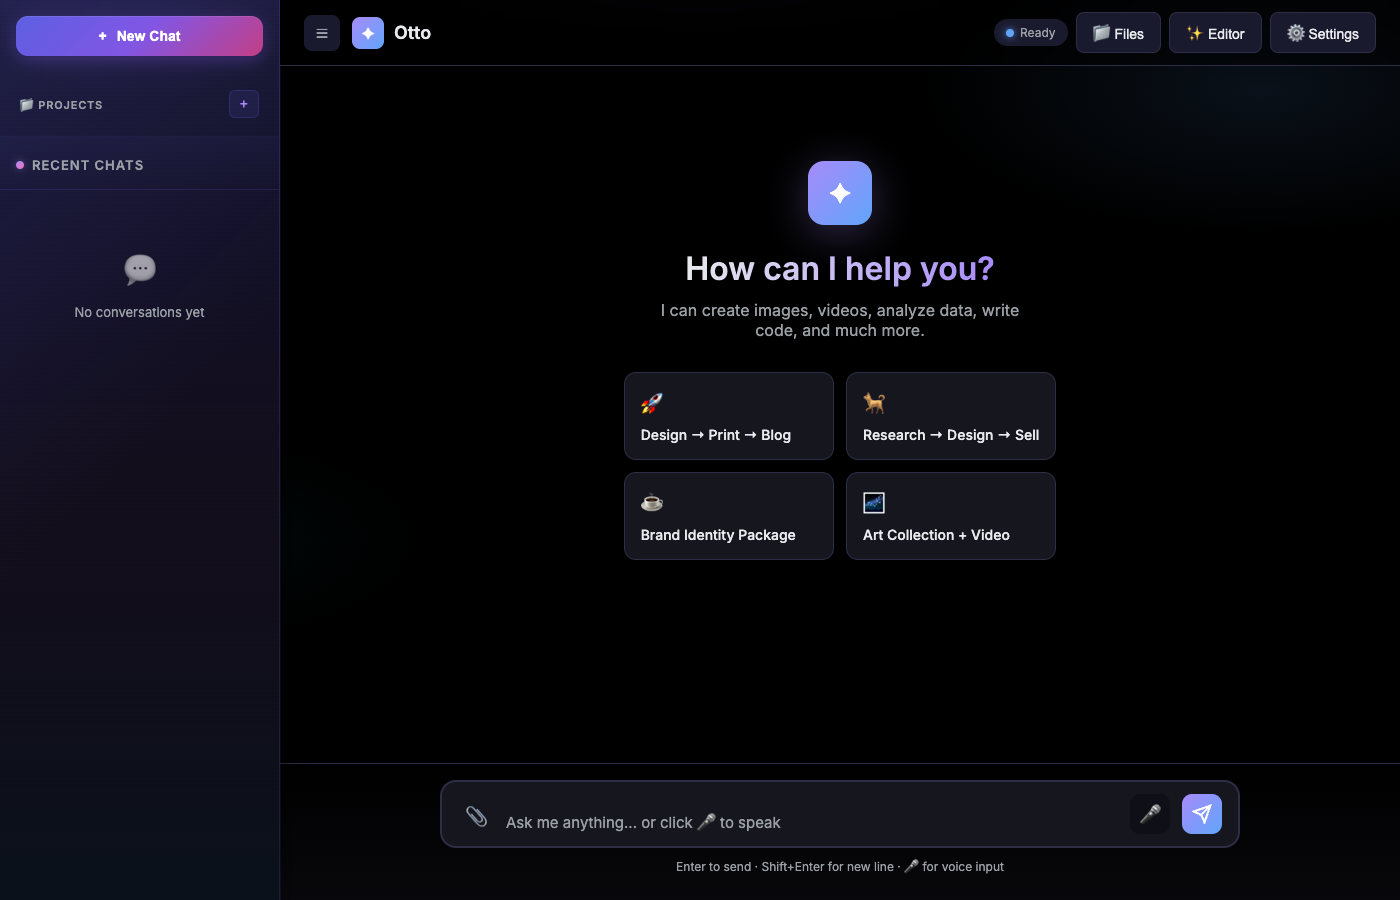
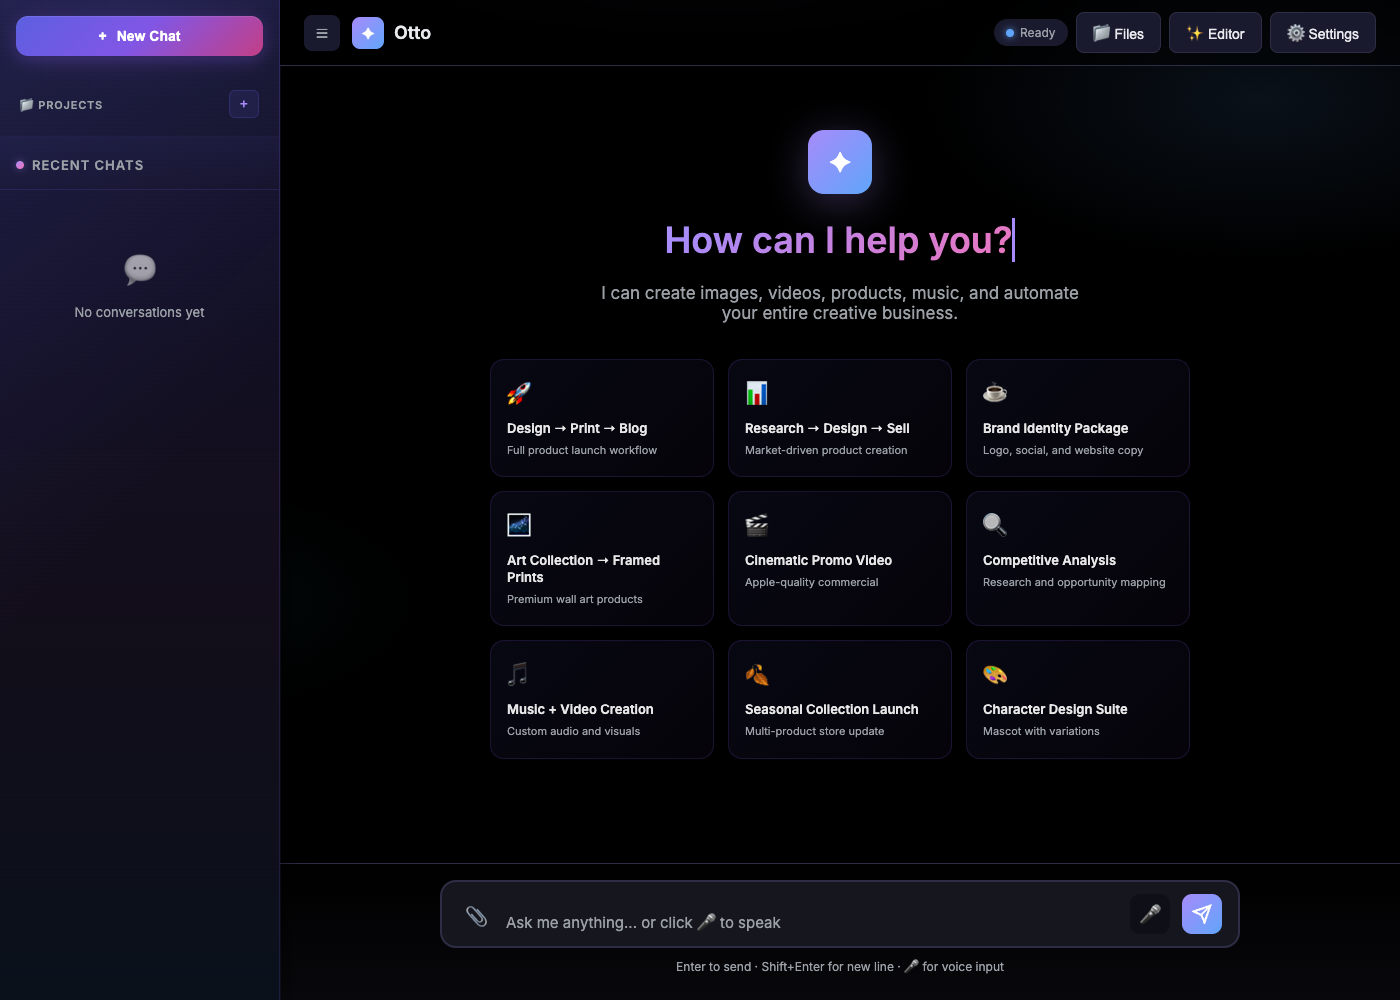
Add typing animation and 9 quick command buttons to welcome screen

diff --git a/src/web/chat.html b/src/web/chat.html
@@ -569,35 +569,130 @@
             box-shadow: 0 8px 40px rgba(167, 139, 250, 0.3);
         }
         
-        .welcome h1 { font-size: 32px; font-weight: 600; margin-bottom: 12px; background: linear-gradient(90deg, var(--text), var(--accent-purple)); -webkit-background-clip: text; -webkit-text-fill-color: transparent; background-clip: text; }
-        .welcome p { color: var(--text-muted); font-size: 16px; margin-bottom: 32px; max-width: 400px; }
+        .welcome h1 {
+            font-size: 36px;
+            font-weight: 700;
+            margin-bottom: 12px;
+            background: linear-gradient(135deg, #fff 0%, var(--accent-purple) 50%, var(--accent-pink) 100%);
+            -webkit-background-clip: text;
+            -webkit-text-fill-color: transparent;
+            background-clip: text;
+            background-size: 200% 200%;
+            animation: welcomeGradient 3s ease infinite;
+        }
+        
+        @keyframes welcomeGradient {
+            0%, 100% { background-position: 0% 50%; }
+            50% { background-position: 100% 50%; }
+        }
+        
+        .welcome h1 .typing-text {
+            display: inline-block;
+            overflow: hidden;
+            white-space: nowrap;
+            border-right: 3px solid var(--accent-purple);
+            animation: typing 2s steps(20, end) forwards, blink-caret 0.75s step-end infinite;
+        }
+        
+        @keyframes typing {
+            from { width: 0; }
+            to { width: 100%; }
+        }
+        
+        @keyframes blink-caret {
+            from, to { border-color: transparent; }
+            50% { border-color: var(--accent-purple); }
+        }
+        
+        .welcome p {
+            color: var(--text-muted);
+            font-size: 17px;
+            margin-bottom: 36px;
+            max-width: 500px;
+            opacity: 0;
+            animation: fadeInUp 0.6s ease 1.5s forwards;
+        }
+        
+        @keyframes fadeInUp {
+            from {
+                opacity: 0;
+                transform: translateY(10px);
+            }
+            to {
+                opacity: 1;
+                transform: translateY(0);
+            }
+        }
         
         .suggestions {
             display: grid;
-            grid-template-columns: repeat(2, 1fr);
-            gap: 12px;
-            max-width: 500px;
+            grid-template-columns: repeat(3, 1fr);
+            gap: 14px;
+            max-width: 700px;
+            opacity: 0;
+            animation: fadeInUp 0.6s ease 1.8s forwards;
         }
         
         .suggestion {
-            padding: 16px;
-            background: var(--bg-card);
-            border: 1px solid var(--border);
-            border-radius: var(--radius);
+            padding: 18px 16px;
+            background: linear-gradient(135deg, rgba(99, 102, 241, 0.08) 0%, rgba(139, 92, 246, 0.04) 100%);
+            border: 1px solid rgba(139, 92, 246, 0.15);
+            border-radius: 14px;
             cursor: pointer;
             text-align: left;
-            transition: all 0.2s;
+            transition: all 0.3s cubic-bezier(0.4, 0, 0.2, 1);
+            position: relative;
+            overflow: hidden;
+        }
+        
+        .suggestion::before {
+            content: '';
+            position: absolute;
+            top: 0;
+            left: -100%;
+            width: 100%;
+            height: 100%;
+            background: linear-gradient(90deg, transparent, rgba(255, 255, 255, 0.1), transparent);
+            transition: left 0.5s ease;
+        }
+        
+        .suggestion:hover::before {
+            left: 100%;
         }
         
         .suggestion:hover {
             border-color: var(--accent-purple);
-            transform: translateY(-2px);
-            box-shadow: 0 4px 20px rgba(167, 139, 250, 0.15);
-            background: rgba(167, 139, 250, 0.05);
+            transform: translateY(-4px) scale(1.02);
+            box-shadow: 
+                0 8px 30px rgba(139, 92, 246, 0.25),
+                0 0 0 1px rgba(139, 92, 246, 0.1);
+            background: linear-gradient(135deg, rgba(139, 92, 246, 0.15) 0%, rgba(236, 72, 153, 0.08) 100%);
         }
         
-        .suggestion-icon { font-size: 20px; margin-bottom: 8px; }
-        .suggestion-text { font-size: 14px; font-weight: 500; }
+        .suggestion-icon {
+            font-size: 24px;
+            margin-bottom: 10px;
+            display: inline-block;
+            transition: transform 0.3s ease;
+        }
+        
+        .suggestion:hover .suggestion-icon {
+            transform: scale(1.2) rotate(-5deg);
+        }
+        
+        .suggestion-text {
+            font-size: 13px;
+            font-weight: 600;
+            color: rgba(255, 255, 255, 0.9);
+            line-height: 1.3;
+        }
+        
+        .suggestion-desc {
+            font-size: 11px;
+            color: var(--text-muted);
+            margin-top: 6px;
+            line-height: 1.4;
+        }
         
         /* Messages */
         .message {
@@ -2523,7 +2618,17 @@
                 width: 100%;
                 max-width: 320px;
             }
+            .suggestions { grid-template-columns: 1fr 1fr; gap: 10px; }
+            .suggestion { padding: 14px 12px; }
+            .suggestion-icon { font-size: 20px; margin-bottom: 6px; }
+            .suggestion-text { font-size: 12px; }
+            .suggestion-desc { font-size: 10px; }
+            .welcome h1 { font-size: 28px; }
+        }
+        
+        @media (max-width: 480px) {
             .suggestions { grid-template-columns: 1fr; }
+            .welcome h1 { font-size: 24px; }
         }
         
         /* Context Menu */
@@ -2724,24 +2829,53 @@
                     <div class="messages" id="messages">
                         <div class="welcome" id="welcome">
                             <div class="welcome-icon">✦</div>
-                            <h1>How can I help you?</h1>
-                            <p>I can create images, videos, analyze data, write code, and much more.</p>
+                            <h1><span class="typing-text">How can I help you?</span></h1>
+                            <p>I can create images, videos, products, music, and automate your entire creative business.</p>
                             <div class="suggestions">
                                 <div class="suggestion" onclick="sendSuggestion('Design a cute cat illustration, put it on a mug and t-shirt on Printify, and write a marketing blog post about it')">
                                     <div class="suggestion-icon">🚀</div>
                                     <div class="suggestion-text">Design → Print → Blog</div>
+                                    <div class="suggestion-desc">Full product launch workflow</div>
                                 </div>
                                 <div class="suggestion" onclick="sendSuggestion('Research trending pet products, design 3 unique dog-themed graphics, and create products on my Printify store')">
-                                    <div class="suggestion-icon">🐕</div>
+                                    <div class="suggestion-icon">📊</div>
                                     <div class="suggestion-text">Research → Design → Sell</div>
+                                    <div class="suggestion-desc">Market-driven product creation</div>
                                 </div>
                                 <div class="suggestion" onclick="sendSuggestion('Create a professional logo for a coffee shop called Morning Brew, generate social media posts, and write website copy')">
                                     <div class="suggestion-icon">☕</div>
                                     <div class="suggestion-text">Brand Identity Package</div>
+                                    <div class="suggestion-desc">Logo, social, and website copy</div>
                                 </div>
-                                <div class="suggestion" onclick="sendSuggestion('Generate 5 unique space-themed wallpaper designs and create a video showcasing them with music')">
+                                <div class="suggestion" onclick="sendSuggestion('Generate 5 unique space-themed wallpaper designs in portrait mode using Flux Pro and create framed art products for each')">
                                     <div class="suggestion-icon">🌌</div>
-                                    <div class="suggestion-text">Art Collection + Video</div>
+                                    <div class="suggestion-text">Art Collection → Framed Prints</div>
+                                    <div class="suggestion-desc">Premium wall art products</div>
+                                </div>
+                                <div class="suggestion" onclick="sendSuggestion('Create a cinematic 10-second promo video for a luxury watch brand with dramatic lighting and epic music')">
+                                    <div class="suggestion-icon">🎬</div>
+                                    <div class="suggestion-text">Cinematic Promo Video</div>
+                                    <div class="suggestion-desc">Apple-quality commercial</div>
+                                </div>
+                                <div class="suggestion" onclick="sendSuggestion('Analyze my top 5 competitors in the wellness space, identify gaps, and create 3 unique product designs to fill them')">
+                                    <div class="suggestion-icon">🔍</div>
+                                    <div class="suggestion-text">Competitive Analysis</div>
+                                    <div class="suggestion-desc">Research and opportunity mapping</div>
+                                </div>
+                                <div class="suggestion" onclick="sendSuggestion('Generate ambient lo-fi music and create a 30-second video loop with calming nature visuals for my meditation app')">
+                                    <div class="suggestion-icon">🎵</div>
+                                    <div class="suggestion-text">Music + Video Creation</div>
+                                    <div class="suggestion-desc">Custom audio and visuals</div>
+                                </div>
+                                <div class="suggestion" onclick="sendSuggestion('Create a complete seasonal collection: 5 autumn-themed designs, put them on hoodies and mugs, write product descriptions, and publish to my store')">
+                                    <div class="suggestion-icon">🍂</div>
+                                    <div class="suggestion-text">Seasonal Collection Launch</div>
+                                    <div class="suggestion-desc">Multi-product store update</div>
+                                </div>
+                                <div class="suggestion" onclick="sendSuggestion('Design a mascot character for a kids education app, create 5 expressions/poses, and generate promotional materials')">
+                                    <div class="suggestion-icon">🎨</div>
+                                    <div class="suggestion-text">Character Design Suite</div>
+                                    <div class="suggestion-desc">Mascot with variations</div>
                                 </div>
                             </div>
                         </div>
